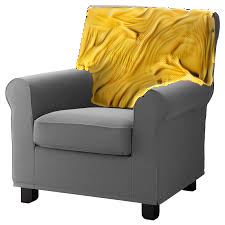
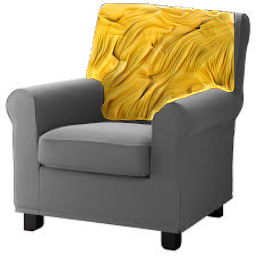
fixed getting binary mask from user input

diff --git a/driver.py b/driver.py
@@ -13,7 +13,7 @@ import torch
 
 import dextr.segment as seg
 import style_transfer as st
-import blender as b
+# import blender as b
 
 import argparse
 
@@ -21,11 +21,28 @@ import torch.nn.functional as F
 
 from torchvision import models
 
-import imageio
+import os
 
+IMSIZE=256
+
+datapath = './data'
+datatype='/images'
+furniture='/chairs'
+
+generic='/generic/armchair.jpeg'
+
+
+des_furn = [
+    '/cobonpue/chair-2.jpg',
+    '/cobonpue/chair-3.jpg',
+    '/tiotuico/table-1.jpg',
+    '/milo_naval/sofa-1.jpg'
+]
 
 if __name__ == "__main__":
     print("Main Driver")
+
+    
 
     device = utils.setup_device(use_gpu = True)
 
@@ -34,29 +51,28 @@ if __name__ == "__main__":
 
     content_path = './data/images/chairs/generic/armchair.jpeg'
     style_path = './data/images/chairs/cobonpue/chair-2.jpg'
-    mask_path = './data/images/masks/segmented_back.png'
-    style_mask_path = './data/images/masks/style_seat_mask.png'
 
-    # ## Get mask by segmenting the content image via user input
-    # mask,_ = seg.segment_points(content_path,device=device)
-    # # Convert mask from Numpy array to Torch tensor
-    # mask = torch.from_numpy(mask)
+    ## Get mask by segmenting the content image via user input
+    _,mask_path = seg.segment_points(content_path,device=device)
+    # mask = torch.from_numpy(mask).type(torch.float32)
     # w,h,c = mask.shape
-    # # Make mask have dimensions b,c,w,h
     # mask = mask.view(c,w,h).unsqueeze(0).to(device)
+    # mask = F.interpolate(mask,size=(IMSIZE,IMSIZE))
+
+    # # mask = utils.image_to_tensor(mask).to(device)
 
     ## Or get mask by loading from path
     mask_img = utils.load_image(mask_path)
-    mask = utils.image_to_tensor(mask_img).to(device)
+    mask = utils.image_to_tensor(mask_img,image_size=IMSIZE).to(device)
 
-    style_mask = utils.image_to_tensor(utils.load_image(style_mask_path)).to(device)
     
-    # style_mask,_ = seg.segment_points(style_path,device=device)
-    # # Convert mask from Numpy array to Torch tensor
-    # style_mask = torch.from_numpy(style_mask)
+    _,style_mask_path = seg.segment_points(style_path,device=device)
+    # style_mask = torch.from_numpy(style_mask).type(torch.float32)
     # w,h,c = style_mask.shape
-    # # Make mask have dimensions b,c,w,h
     # style_mask = style_mask.view(c,w,h).unsqueeze(0).to(device)
+    # style_mask = F.interpolate(style_mask,size=(IMSIZE,IMSIZE))
+
+    style_mask = utils.image_to_tensor(utils.load_image(style_mask_path),image_size=IMSIZE).to(device)
 
     print("Mask shape: {}".format(mask.shape))
     print("Style mask shape: {}".format(style_mask.shape))
@@ -64,8 +80,8 @@ if __name__ == "__main__":
     content_img = utils.load_image(content_path)
     style_img = utils.load_image(style_path)
 
-    content = utils.image_to_tensor(content_img).to(device)
-    style = utils.image_to_tensor(style_img).to(device)
+    content = utils.image_to_tensor(content_img,image_size=IMSIZE).to(device)
+    style = utils.image_to_tensor(style_img,image_size=IMSIZE).to(device)
 
     content_clone = content.clone().detach()
 
@@ -83,42 +99,11 @@ if __name__ == "__main__":
 
     initial = content.clone()
 
-    output = st.run_style_transfer(model,normalization_mean,normalization_std,content,style,initial,EPOCHS=2000)
+    output = st.run_style_transfer(model,normalization_mean,normalization_std,content,style,initial,EPOCHS=1000)
 
     save_path = 'outputs/stylized_output.png'
     final = (output * mask) + (content_clone * (1-mask))
     final_img = utils.tensor_to_image(final)
     final_img.save(save_path)
-
-
-
-
-
-
-
-
-
-
-
-
-
-
-    # output_np = output.detach().cpu().numpy()
-    # content_np = content.detach().cpu().numpy()
-    # mask_np = mask.detach().cpu().numpy()
-
-    # final_img = b.blend_images(content_np,output_np,mask_np)
-    
-    # imageio.imwrite('outputs/stylized_output.png',final_img)
-    
-    # output_img = utils.tensor_to_image(output)
-    # save_path = 'outputs/stylized_output.png'
-    # output_img.save(save_path)
-    # print('Saved at {}'.format(save_path))
-
-
-    
-
-
 
 

diff --git a/losses.py b/losses.py
@@ -99,7 +99,7 @@ def get_model_and_losses(cnn, normalization_mean, normalization_std,
         # Retrieve content losses for each content layer
         if name in content_layers:
             output = model(content_img).detach()
-            print("Content features shape: {}".format(output.shape))
+            # print("Content features shape: {}".format(output.shape))
             if(mask is not None):
                 b,c,h,w = output.shape
                 for j in range(c):
@@ -112,7 +112,7 @@ def get_model_and_losses(cnn, normalization_mean, normalization_std,
         # Retrieve style losses for each style layer
         if name in style_layers:
             output_features = model(style_img).detach()
-            print("Style features shape: {}".format(output_features.shape))
+            # print("Style features shape: {}".format(output_features.shape))
             # if(mask is not None):
             #     mask_features = model(mask).detach()
             #     output_features = torch.matmul(output_features,mask_features)
